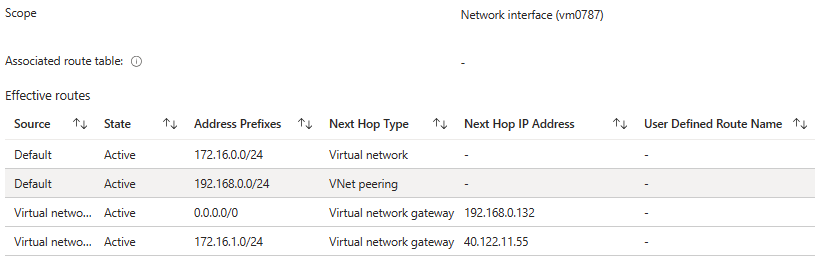
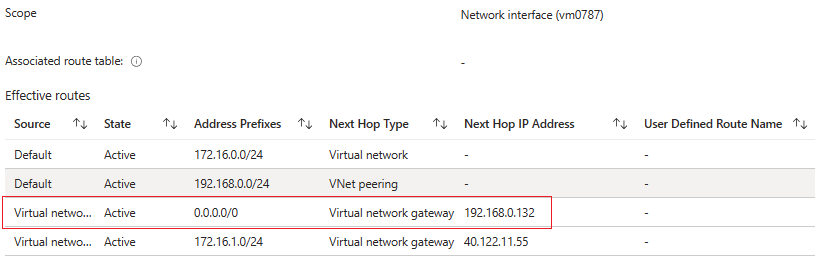
updates

Changed region(s): [[0.0, 0.855, 0.6732, 0.8855], [0.0, 0.7328, 0.6732, 0.7634]]

diff --git a/README.md b/README.md
@@ -1,27 +1,26 @@
 # **Bastion and Virtual WAN Secured Hub**
-[Azure Bastion](https://learn.microsoft.com/en-us/azure/bastion/bastion-overview) provides secure and seamless Remote Desktop Protocol (RDP) and Secure Shell (SSH) access to virtual machines directly through the Azure Portal. Azure Bastion is provisioned directly into a Virtual Network (VNet) and supports all VMs in the same and peered VNets, and anywhere else provided there is connectivity. Using Azure Bastion eliminates the need to open inbound connectivity to VMs from the internet, thereby reducing the attack surface area.
+[Azure Bastion](https://learn.microsoft.com/en-us/azure/bastion/bastion-overview) provides secure and seamless Remote Desktop Protocol (RDP) and Secure Shell (SSH) access to virtual machines directly through the Azure Portal. Azure Bastion is provisioned directly into a Virtual Network (VNet) and supports all VMs in the same and peered VNets, and anywhere else provided there is connectivity. Using Azure Bastion eliminates the need to open inbound connectivity to VMs from the internet, thereby reducing the attack surface.
 
 [Azure Virtual WAN Secured Hub](https://learn.microsoft.com/en-us/azure/firewall-manager/secured-virtual-hub) allows organizations to create a hub-and-spoke architecture in Azure and route traffic through the hub. The "Secured" part refers to the integrated security features, such as firewall and threat protection. This service simplifies network architecture, enhances connectivity, and provides built-in security, making it easier for organizations to manage and secure their network traffic.
 
 # The Problem
-Users connect inbound to Azure Bastion on its public endpoint via https - either from the Azure portal, or by directly pasting a shareable link in the browser's address line. Bastion then establishes an RDP or SSH session to the target VM from its private endpoint on the AzureBastionSubnet, to the private ip address of the target. 
+Users connect inbound to Azure Bastion on its public endpoint via https - either from the Azure portal, or by directly pasting a shareable link in the browser's address bar. Bastion then establishes an RDP or SSH session to the target VM from its private endpoint on the AzureBastionSubnet, to the private ip address of the target. 
 
 However, when Virtual WAN Secured Hub is configured to secure internet traffic through the hub firewall, the Virtual Hub Router programs the default route on all subnets in connected spoke VNETs, pointing to the firewall's loadbalancer address. This uses the same mechanism that Gateways use to program routes, and the route shows in VM effective routes with Source "Virtual Network Gateway". This route is also applied to the AzureBastionSubnet.
 
 ![image](/images/vm-eff-rts.png)
 
-When a user now accesses either Bastion or a VM directly on its (instance) Public IP, the default route programmed by the Virtual Hub Router pushes return traffic to the hub firewall. As the firewall did not see the inbound traffic (as this was directed to the instance Public IP), it will drop the return traffic and the sesssion fails.
+When a user now accesses either Bastion or a VM directly on its (instance) public IP, the default route programmed by the Virtual Hub Router pushes return traffic to the hub firewall. As the firewall did not see the inbound traffic (this was directed to the instance public IP), it will drop the return traffic and the sesssion fails.
 
 ![image](/images/bastion-secure-hub-problem.png)
 
-Direct inbound access to a VM is easily fixed with a UDR containing a route for the client's IP address pointig to internet. 
+Direct inbound access to a VM is easily fixed with a UDR containing a route for the client's IP address pointing to internet. 
 
 ![image](/images/vm-eff-rts-udr.png)
 
-However, Bastion needs direct connectivity to internet from its subnet and to ensure that this is always the case, Azure prevents attaching a User Defined Route (UDR) table to the AzureBastionSubnet.
-As AzureBastionSubnet will not accept a UDR, the above fix does not work for Bastion. 
+However, Bastion needs direct connectivity to internet from its subnet. To ensure that this is always the case, Azure prevents attaching a User Defined Route (UDR) table to the AzureBastionSubnet and the above fix does not work for Bastion. 
 
-VWAN Secured Hub configured to secure internet traffic through the hub firewall breaks Azure Bastion.
+:point_right: VWAN Secured Hub configured to secure internet traffic through the hub firewall breaks Azure Bastion.
 
 # The Solution
 Azure Bastion Premium Tier introduces new Session Recording and Private Only features. Bastion Premium is in preview, available in the Azure Early Updates Access Program regions Central US EUAP and East US2 EUAP and accessible through this [Portal flight link](aka.ms/pobpreview).
@@ -34,7 +33,7 @@ With Bastion Premium Private Only and the hub firewall's Destination Network Add
 
 ![image](/images/bastion-secure-hub-solution.png)
 
-The client targets the firewall's public IP address on port 443. A DNAT rule then translates the public destination address into Bastion's private address and forwards the traffic. As the firewall also Source NATs the traffic (this default behaviour for Azure Firewall, third party NVA firewalls may need separate configuration), return traffic from Bastion always goes to the firewall, ensuring traffic symmetry.
+The client targets the firewall's public IP address on port 443. A DNAT rule then translates the public destination address into Bastion's private address and forwards the traffic. As the firewall also Source NATs the traffic (default behaviour for Azure Firewall, third party NVA firewalls may need separate configuration), return traffic from Bastion always goes to the firewall, ensuring traffic symmetry.
 
 ![image](/images/dnat-rule.png)
 
